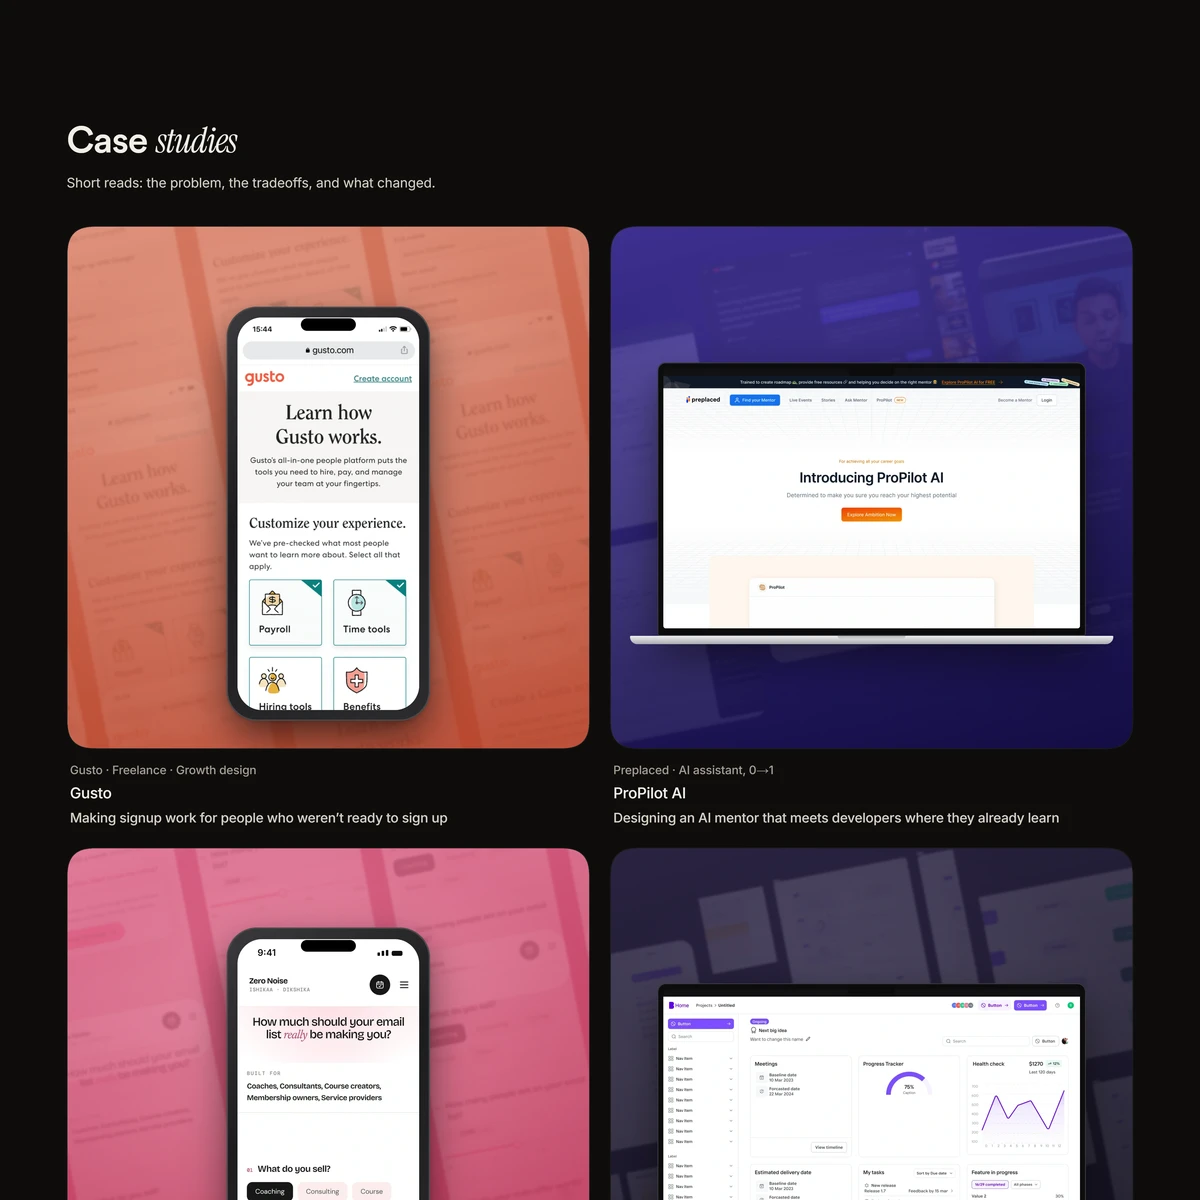
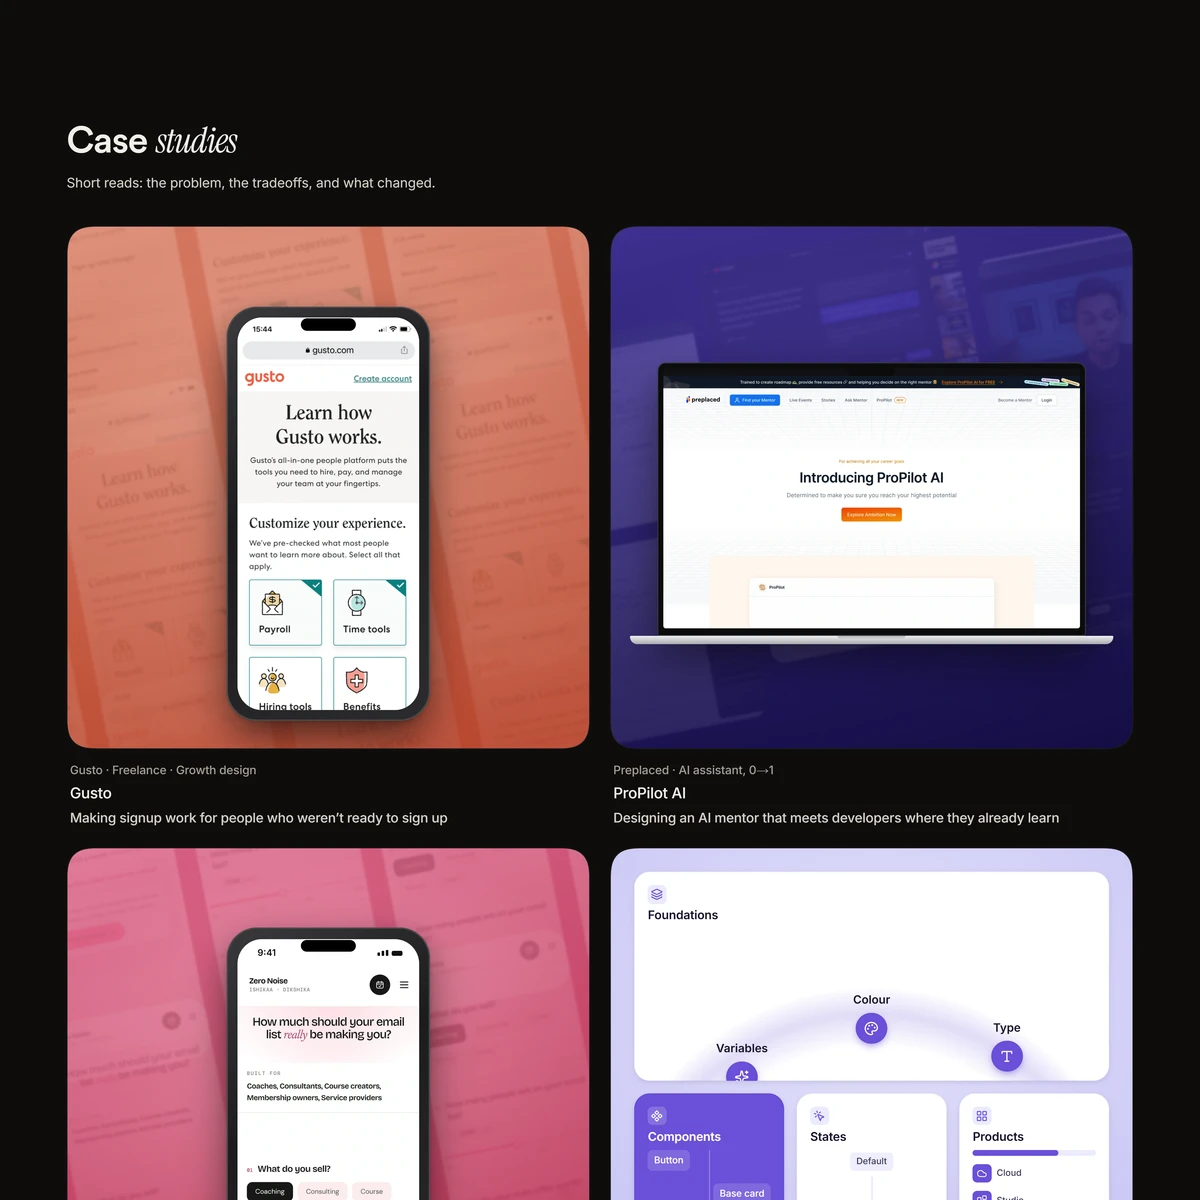
BLOCK and Builder University covers: animated bento of their domains
After Muskan's screen-recording reference: a rotating arc of foundations /
learning-plan stages, chips lighting up in turn (components / course path),
an icon carousel (states / achievements) and a progress list (products /
plan progress). CSS loops in cqw; still under reduced or paused motion.

Changed region(s): [[0.4933, 0.7092, 0.9558, 1.0]]

diff --git a/src/components/home/bento-cover.tsx b/src/components/home/bento-cover.tsx
@@ -1,0 +1,218 @@
+import type { CSSProperties, ReactNode } from "react";
+import {
+  Award,
+  BadgeCheck,
+  Blocks,
+  BookOpen,
+  Bot,
+  Building2,
+  Circle,
+  ClipboardCheck,
+  Cloud,
+  Component,
+  Compass,
+  GraduationCap,
+  Layers,
+  LayoutGrid,
+  ListChecks,
+  Lock,
+  MonitorPlay,
+  MousePointerClick,
+  Palette,
+  Ruler,
+  Shapes,
+  Sparkles,
+  SquareDashed,
+  Trophy,
+  Type,
+  Workflow,
+} from "lucide-react";
+
+/*
+ * Animated bento covers (after Muskan's screen-recording reference: a tech-stack bento): one wide card with
+ * tools riding a rotating arc, and three below: chips lighting up in turn along a line, an icon carousel with
+ * a label above the centre, and a bar filling while a list appears. All CSS loops sized in cqw of the square
+ * cover; they hold still under reduced motion or when the site's motion is paused.
+ */
+
+type Item = { label: string; icon: ReactNode };
+type Bento = {
+  accent: string;
+  /** the wide top card */
+  arc: { title: string; icon: ReactNode; items: Item[] };
+  /** the accent card: chips that light up one after another */
+  chips: { title: string; icon: ReactNode; items: string[] };
+  /** the carousel card */
+  carousel: { title: string; icon: ReactNode; items: Item[] };
+  /** the progress card */
+  progress: { title: string; icon: ReactNode; items: Item[] };
+};
+
+const i = (C: typeof Cloud) => <C aria-hidden strokeWidth={2} />;
+
+export const BENTOS: Record<string, Bento> = {
+  "builder-design-system": {
+    accent: "#6b4fd8",
+    arc: {
+      title: "Foundations",
+      icon: i(Layers),
+      items: [
+        { label: "Colour", icon: i(Palette) },
+        { label: "Type", icon: i(Type) },
+        { label: "Spacing", icon: i(Ruler) },
+        { label: "Radius", icon: i(SquareDashed) },
+        { label: "Icons", icon: i(Shapes) },
+        { label: "Variables", icon: i(Sparkles) },
+      ],
+    },
+    chips: { title: "Components", icon: i(Component), items: ["Button", "Base card", "Side nav", "Table", "Side panel", "Composer"] },
+    carousel: {
+      title: "States",
+      icon: i(MousePointerClick),
+      items: [
+        { label: "Default", icon: i(Circle) },
+        { label: "Hover", icon: i(MousePointerClick) },
+        { label: "Focus", icon: i(SquareDashed) },
+        { label: "Listening", icon: i(Bot) },
+        { label: "Thinking", icon: i(Sparkles) },
+      ],
+    },
+    progress: {
+      title: "Products",
+      icon: i(LayoutGrid),
+      items: [
+        { label: "Cloud", icon: i(Cloud) },
+        { label: "Studio", icon: i(Blocks) },
+        { label: "Enterprise", icon: i(Building2) },
+      ],
+    },
+  },
+  "builder-university": {
+    accent: "#13806f",
+    arc: {
+      title: "Learning plan",
+      icon: i(Compass),
+      items: [
+        { label: "Onboarding", icon: i(BookOpen) },
+        { label: "Product", icon: i(Blocks) },
+        { label: "Process", icon: i(Workflow) },
+        { label: "Tools", icon: i(LayoutGrid) },
+        { label: "Assessment", icon: i(ClipboardCheck) },
+        { label: "Certificate", icon: i(GraduationCap) },
+      ],
+    },
+    chips: { title: "Your path", icon: i(ListChecks), items: ["Welcome", "Builder 101", "Studio", "Delivery", "Quiz", "Locked"] },
+    carousel: {
+      title: "Achievements",
+      icon: i(Trophy),
+      items: [
+        { label: "Bronze", icon: i(Award) },
+        { label: "Silver", icon: i(Award) },
+        { label: "Gold", icon: i(Trophy) },
+        { label: "Course done", icon: i(BadgeCheck) },
+        { label: "Video lesson", icon: i(MonitorPlay) },
+      ],
+    },
+    progress: {
+      title: "Plan progress",
+      icon: i(GraduationCap),
+      items: [
+        { label: "Product tour", icon: i(BookOpen) },
+        { label: "Process", icon: i(Workflow) },
+        { label: "Assessment", icon: i(Lock) },
+      ],
+    },
+  },
+};
+
+function Head({ icon, title }: { icon: ReactNode; title: string }) {
+  return (
+    <div className="bn-head">
+      <span className="bn-head__icon">{icon}</span>
+      <span>{title}</span>
+    </div>
+  );
+}
+
+export function BentoCover({ slug }: { slug: string }) {
+  const b = BENTOS[slug];
+  if (!b) return null;
+  // the arc carries its tools twice, 30deg apart, so three or four ride the visible top at once
+  const arcItems = [...b.arc.items, ...b.arc.items];
+  const arcN = arcItems.length;
+  const carN = b.carousel.items.length;
+  const chipN = b.chips.items.length;
+  const progN = b.progress.items.length;
+  return (
+    <div className="bn" style={{ "--bn-accent": b.accent } as CSSProperties} aria-hidden>
+      {/* wide card: tools riding a rotating arc */}
+      <div className="bn-card bn-card--wide">
+        <Head icon={b.arc.icon} title={b.arc.title} />
+        <div className="bn-arc">
+          <div className="bn-arc__glow" />
+          <div className="bn-arc__ring">
+            {arcItems.map((it, k) => (
+              <div key={k} className="bn-arc__spoke" style={{ "--a": `${(360 / arcN) * k}deg` } as CSSProperties}>
+                <div className="bn-arc__item">
+                  <div className="bn-arc__spin">
+                    <span className="bn-arc__label">{it.label}</span>
+                    <span className="bn-dot">{it.icon}</span>
+                  </div>
+                </div>
+              </div>
+            ))}
+          </div>
+        </div>
+      </div>
+
+      {/* accent card: chips light up one after another along a line */}
+      <div className="bn-card bn-card--accent">
+        <Head icon={b.chips.icon} title={b.chips.title} />
+        <div className="bn-chips" style={{ "--n": chipN } as CSSProperties}>
+          <span className="bn-chips__line" />
+          {b.chips.items.map((c, k) => (
+            <span key={c} className={`bn-chip ${k % 2 ? "bn-chip--r" : ""}`} style={{ "--k": k } as CSSProperties}>
+              {c}
+            </span>
+          ))}
+        </div>
+      </div>
+
+      {/* carousel card: icons slide past the centre, its label above */}
+      <div className="bn-card">
+        <Head icon={b.carousel.icon} title={b.carousel.title} />
+        <div className="bn-car" style={{ "--n": carN } as CSSProperties}>
+          <div className="bn-car__labels">
+            {b.carousel.items.map((it, k) => (
+              <span key={it.label} className="bn-car__label" style={{ "--k": k } as CSSProperties}>
+                {it.label}
+              </span>
+            ))}
+          </div>
+          <span className="bn-car__stem" />
+          {b.carousel.items.map((it, k) => (
+            <span key={it.label} className="bn-car__item" style={{ "--k": k } as CSSProperties}>
+              <span className="bn-dot">{it.icon}</span>
+            </span>
+          ))}
+        </div>
+      </div>
+
+      {/* progress card: a bar fills while the list appears */}
+      <div className="bn-card">
+        <Head icon={b.progress.icon} title={b.progress.title} />
+        <div className="bn-prog" style={{ "--n": progN } as CSSProperties}>
+          <span className="bn-prog__bar">
+            <span className="bn-prog__fill" />
+          </span>
+          {b.progress.items.map((it, k) => (
+            <span key={it.label} className="bn-prog__row" style={{ "--k": k } as CSSProperties}>
+              <span className="bn-prog__icon">{it.icon}</span>
+              {it.label}
+            </span>
+          ))}
+        </div>
+      </div>
+    </div>
+  );
+}

diff --git a/src/app/(site)/globals.css b/src/app/(site)/globals.css
@@ -1644,3 +1644,80 @@ html[data-motion="paused"] .cv-scroll__page { animation: none; }
 .cv--phones.cv--clear .cv-wall__tile { border-radius: 0; }
 /* OYO: the framed phone sits higher. */
 .cv-framed { margin-top: 0; transform: translateY(-3cqw); }
+
+/* Animated bento covers (bento-cover.tsx): sized in cqw of the square cover. */
+.bn {
+  position: absolute; inset: 0; display: grid; gap: 2.4cqw; padding: 4.5cqw;
+  grid-template-columns: repeat(3, minmax(0, 1fr)); grid-template-rows: 44% 1fr;
+  background: radial-gradient(90% 70% at 50% 30%, color-mix(in oklab, var(--bn-accent) 16%, #fff), color-mix(in oklab, var(--bn-accent) 30%, #f1eefb));
+  font-family: var(--font-body), system-ui, sans-serif; color: #17142a;
+}
+.bn-card {
+  position: relative; overflow: hidden; border-radius: 3cqw; padding: 2.6cqw;
+  background: #fff; box-shadow: 0 0.4cqw 1.6cqw -0.6cqw rgba(30, 20, 70, 0.25), inset 0 0 0 0.15cqw rgba(30, 20, 70, 0.05);
+}
+.bn-card--wide { grid-column: 1 / -1; }
+.bn-card--accent { background: var(--bn-accent); color: #fff; }
+.bn-head { position: relative; z-index: 2; display: flex; flex-direction: column; gap: 0.9cqw; font-size: 2.3cqw; font-weight: 600; letter-spacing: -0.01em; line-height: 1.1; }
+.bn-head__icon { display: grid; place-items: center; width: 3.6cqw; height: 3.6cqw; border-radius: 1cqw; color: var(--bn-accent); background: color-mix(in oklab, var(--bn-accent) 12%, #fff); }
+.bn-head__icon svg { width: 2.3cqw; height: 2.3cqw; }
+.bn-card--accent .bn-head__icon { color: #fff; background: rgba(255, 255, 255, 0.18); }
+.bn-dot { display: grid; place-items: center; width: 6cqw; height: 6cqw; border-radius: 50%; color: #fff; background: var(--bn-accent);
+  box-shadow: 0 0.6cqw 1.6cqw -0.4cqw color-mix(in oklab, var(--bn-accent) 70%, transparent); }
+.bn-dot svg { width: 2.8cqw; height: 2.8cqw; }
+
+/* the arc: a ring of tools rotating behind the card's lower edge */
+.bn-arc { position: absolute; inset: 0; }
+.bn-arc__glow { position: absolute; left: 50%; top: 22cqw; width: 104cqw; height: 104cqw; margin-left: -52cqw; border-radius: 50%;
+  background: radial-gradient(closest-side, transparent 78%, color-mix(in oklab, var(--bn-accent) 20%, transparent) 90%, transparent 100%); }
+.bn-arc__ring { position: absolute; left: 50%; top: 22cqw; width: 0; height: 0; margin-top: 52cqw; animation: bn-spin 36s linear infinite; }
+.bn-arc__spoke { position: absolute; left: 0; top: 0; transform: rotate(var(--a)) translateY(-46cqw); }
+.bn-arc__item { transform: translate(-50%, -50%) rotate(calc(-1 * var(--a))); }
+/* label and dot turn back together, so the label stays upright above its dot */
+.bn-arc__spin { display: flex; flex-direction: column; align-items: center; gap: 0.8cqw; animation: bn-spin 36s linear infinite reverse; }
+.bn-arc__label { font-size: 2.2cqw; font-weight: 600; white-space: nowrap; }
+@keyframes bn-spin { to { transform: rotate(360deg); } }
+
+/* chips lighting up in turn, alternating sides of a line */
+.bn-chips { position: absolute; inset: 11cqw 2.6cqw 2cqw; display: flex; flex-direction: column; justify-content: space-between; }
+.bn-chips__line { position: absolute; left: 50%; top: 0; bottom: 0; width: 0.2cqw; background: rgba(255, 255, 255, 0.35); }
+.bn-chip { position: relative; align-self: flex-start; max-width: 48%; padding: 0.6cqw 1.2cqw; border-radius: 1cqw; font-size: 1.8cqw; font-weight: 500; white-space: nowrap;
+  color: #fff; background: rgba(255, 255, 255, 0.14); animation: bn-chip calc(var(--n) * 0.9s) ease-in-out infinite; animation-delay: calc(var(--k) * 0.9s); }
+.bn-chip--r { align-self: flex-end; }
+@keyframes bn-chip { 0%, 100% { background: rgba(255, 255, 255, 0.14); color: #fff; } 8%, 34% { background: #fff; color: var(--bn-accent); } 50% { background: rgba(255, 255, 255, 0.14); color: #fff; } }
+
+/* carousel: icons slide through three slots; the centre one is large, its name above */
+.bn-car { position: absolute; inset: 9cqw 0 0; }
+.bn-car__labels { position: absolute; left: 50%; top: 2.4cqw; transform: translateX(-50%); }
+.bn-car__label { position: absolute; left: 0; top: 0; transform: translateX(-50%); padding: 0.5cqw 1.2cqw; border-radius: 0.8cqw; font-size: 1.7cqw; font-weight: 500; white-space: nowrap;
+  background: color-mix(in oklab, var(--bn-accent) 10%, #fff); color: #3b3555; opacity: 0;
+  animation: bn-label calc(var(--n) * 1.6s) ease-in-out infinite; animation-delay: calc(var(--k) * -1.6s); }
+.bn-car__stem { position: absolute; left: 50%; top: 7cqw; bottom: 0; width: 0.2cqw; background: color-mix(in oklab, var(--bn-accent) 20%, transparent); }
+.bn-car__item { position: absolute; left: 50%; top: 13cqw; opacity: 0; animation: bn-car calc(var(--n) * 1.6s) cubic-bezier(0.65, 0, 0.35, 1) infinite; animation-delay: calc(var(--k) * -1.6s); }
+.bn-car__item .bn-dot { width: 5cqw; height: 5cqw; }
+@keyframes bn-car {
+  0% { transform: translate(-50%, 0) translateX(16cqw) scale(0.6); opacity: 0; }
+  14%, 22% { transform: translate(-50%, 0) translateX(9cqw) scale(0.82); opacity: 1; }
+  34%, 42% { transform: translate(-50%, 0) translateX(0) scale(1.5); opacity: 1; }
+  54%, 62% { transform: translate(-50%, 0) translateX(-9cqw) scale(0.82); opacity: 1; }
+  76%, 100% { transform: translate(-50%, 0) translateX(-16cqw) scale(0.6); opacity: 0; }
+}
+@keyframes bn-label { 0%, 30% { opacity: 0; } 35%, 44% { opacity: 1; } 49%, 100% { opacity: 0; } }
+
+/* progress: the bar fills while the list appears */
+.bn-prog { position: absolute; inset: 11cqw 2.6cqw 2cqw; display: flex; flex-direction: column; gap: 1.6cqw; }
+.bn-prog__bar { position: relative; height: 1cqw; border-radius: 1cqw; background: color-mix(in oklab, var(--bn-accent) 12%, #fff); overflow: hidden; }
+.bn-prog__fill { position: absolute; inset: 0 auto 0 0; width: 0; border-radius: inherit; background: var(--bn-accent); animation: bn-fill 6s ease-in-out infinite; }
+.bn-prog__row { display: flex; align-items: center; gap: 1cqw; font-size: 1.7cqw; font-weight: 500; color: #3b3555; opacity: 0;
+  animation: bn-row 6s ease-out infinite; animation-delay: calc(var(--k) * 0.6s); }
+.bn-prog__icon { display: grid; place-items: center; width: 3.6cqw; height: 3.6cqw; flex: none; border-radius: 0.9cqw; color: #fff; background: var(--bn-accent); }
+.bn-prog__icon svg { width: 2cqw; height: 2cqw; }
+@keyframes bn-fill { 0%, 6% { width: 0; } 70%, 88% { width: 100%; } 100% { width: 0; } }
+@keyframes bn-row { 0%, 12% { opacity: 0; transform: translateY(1cqw); } 22%, 80% { opacity: 1; transform: none; } 92%, 100% { opacity: 0; transform: none; } }
+
+@media (prefers-reduced-motion: reduce) {
+  .bn *, .bn *::before { animation: none !important; }
+  .bn-car__item:nth-child(3), .bn-car__label:first-child, .bn-prog__row { opacity: 1; }
+  .bn-prog__fill { width: 70%; }
+}
+html[data-motion="paused"] .bn * { animation-play-state: paused !important; }

diff --git a/src/components/home/cover.tsx b/src/components/home/cover.tsx
@@ -1,5 +1,6 @@
 import Image from "next/image";
 import type { CSSProperties } from "react";
+import { BENTOS, BentoCover } from "@/components/home/bento-cover";
 
 /*
  * Case study covers (after ashpreetsingh.com/projects): one device front and centre, showing the real product
@@ -145,6 +146,8 @@ function Laptop({ s, scroll }: { s: Screen; scroll?: boolean }) {
 
 /** The cover art for a case study; fills its (square, container-sized) parent. */
 export function Cover({ slug }: { slug: string }) {
+  // BLOCK and Builder University: an animated bento of their domain (bento-cover.tsx).
+  if (BENTOS[slug]) return <BentoCover slug={slug} />;
   const c = COVERS[slug];
   if (!c) return null;
   // An even grid: 15 phone screens (5 × 3) in turn, or 6 landscape tiles.
